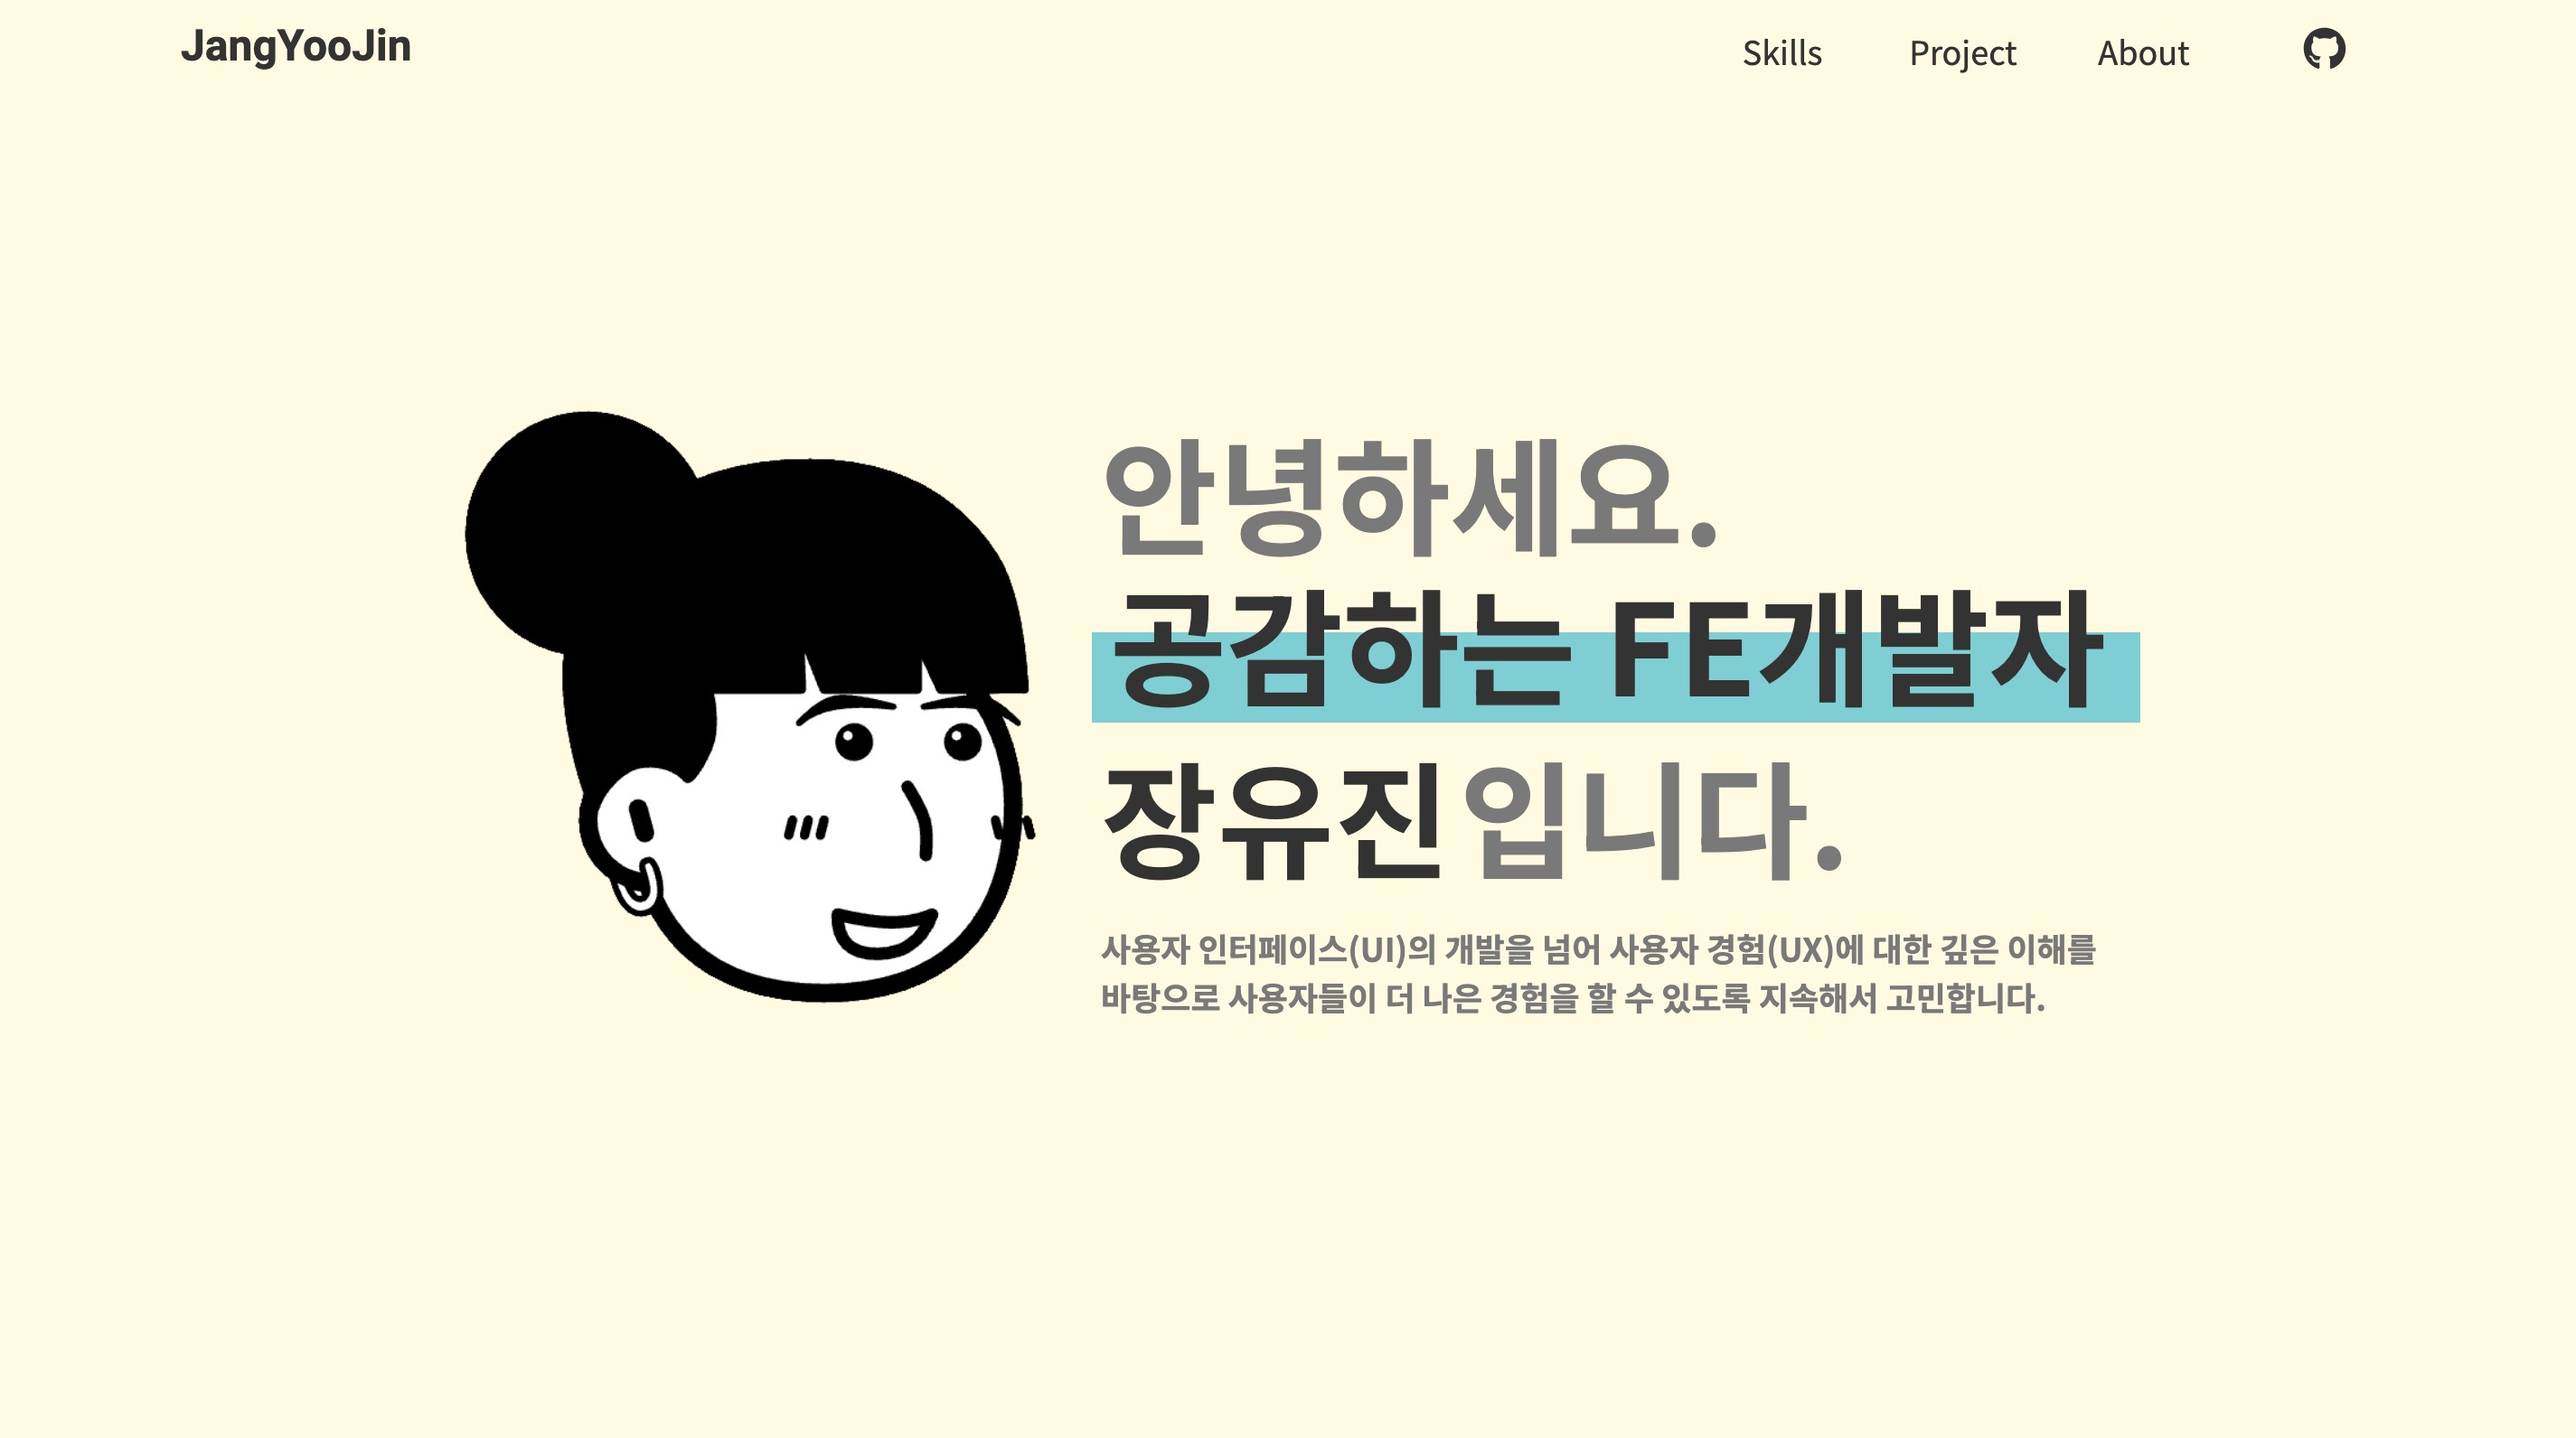
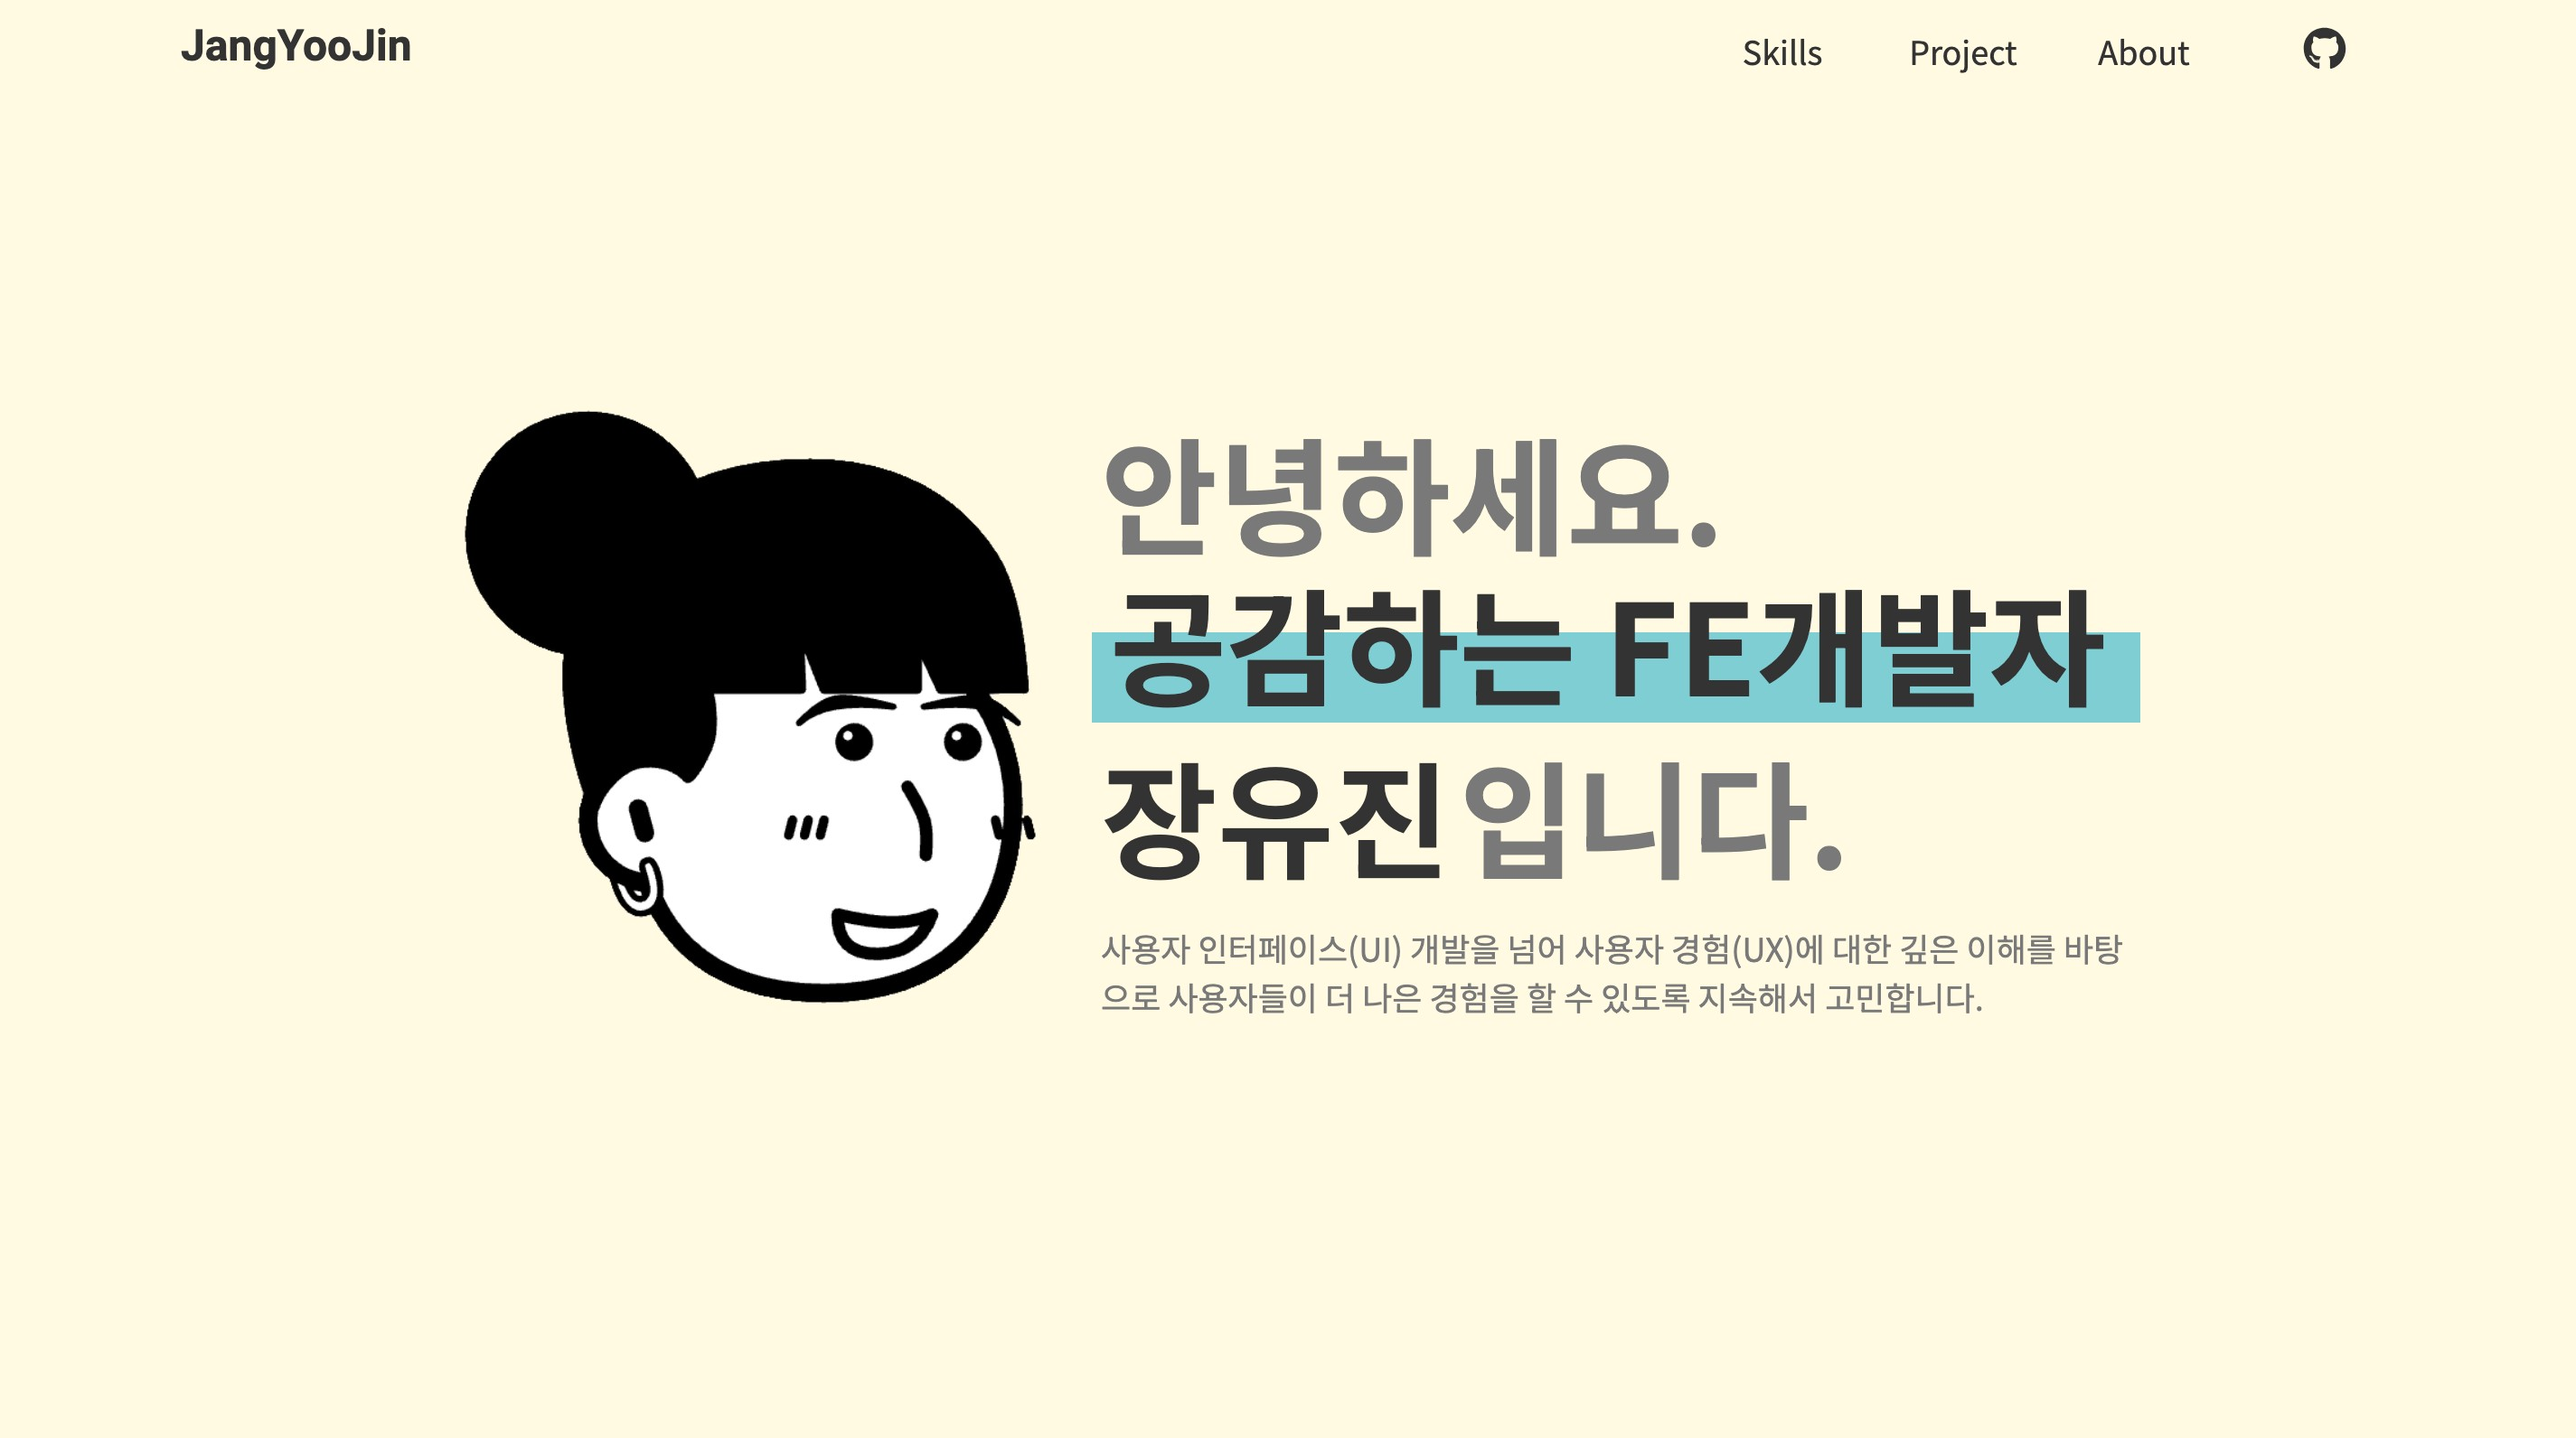
project page

Changed region(s): [[0.406, 0.6464, 0.8432, 0.7079]]

diff --git a/src/layouts/ProjectItem.js b/src/layouts/ProjectItem.js
@@ -48,12 +48,14 @@ const ProjectItem = ({ projectId }) => {
                 <ul className="skillList">{ProjectData[projectId].skill}</ul>
               }
             />
-            <ProjectSection
-              title={"주요 기능"}
-              content={
-                <ul className="funcList">{ProjectData[projectId].func}</ul>
-              }
-            />
+            {ProjectData[projectId].role && (
+              <ProjectSection
+                title={"역할"}
+                content={
+                  <ul className="funcList">{ProjectData[projectId].role}</ul>
+                }
+              />
+            )}
           </aside>
         </article>
         {/* project_bottom */}
@@ -72,6 +74,12 @@ const ProjectItem = ({ projectId }) => {
               content={`${ProjectData[projectId].name} 자료 링크`}
             />
           )}
+          <ProjectSection
+            title={"주요 기능"}
+            content={
+              <ul className="funcList">{ProjectData[projectId].func}</ul>
+            }
+          />
           {ProjectData[projectId].project_ui && (
             <ProjectSection
               title="프로젝트 구조 및 UI"
@@ -90,6 +98,13 @@ const ProjectItem = ({ projectId }) => {
                   {ProjectData[projectId].dev_func}
                 </div>
               }
+            />
+          )}
+
+          {ProjectData[projectId].trouble && (
+            <ProjectSection
+              title="Trouble Shooting"
+              content={ProjectData[projectId].trouble}
             />
           )}
           {ProjectData[projectId].result && (

diff --git a/src/assets/projectdata.js b/src/assets/projectdata.js
@@ -63,6 +63,11 @@ export const ProjectData = [
         </li>
       </ul>
     ),
+    role: (
+      <>
+        <li>기획∙디자인∙개발 100% 진행</li>
+      </>
+    ),
     result_summary: (
       <>
         <li>⌜FE개발자로서 프로필 및 프로젝트들을 소개하기 위한 포트폴리오⌟</li>
@@ -87,6 +92,7 @@ export const ProjectData = [
         </li>
       </>
     ),
+    // trouble: <p></p>,
     result: (
       <p className="des_result">
         이 프로젝트를 통해 <b> React의 다양한 훅과 기능들에 대한 깊게 이해</b>할
@@ -147,6 +153,17 @@ export const ProjectData = [
         <li>각 상품 페이지들 상세 페이지의 상품 소개 및 가격 출력</li>
         <li>Live 페이지</li>
         <li>회원가입 및 마이페이지의 유효성 검사</li>
+      </>
+    ),
+    role: (
+      <>
+        <li>PM, Team Leader</li>
+        <li>프로젝트의 전체적인 스케줄 관리 및 역할 분담</li>
+        <li>기획, 디자인, 개발에 모두 참여</li>
+        <li>
+          산후조리원 몰/졸업몰 상품 상세페이지, 라이브 메인 페이지 & 라이브 상세
+          페이지 개발 담당
+        </li>
       </>
     ),
     result_summary: (
@@ -237,6 +254,12 @@ export const ProjectData = [
           질문을 불러오며 사용자가 작성한 답을 저장하여 불러옵니다.
         </li>
       </ul>
+    ),
+    role: (
+      <>
+        <li>팀원 전체 주제 및 플로우 기획</li>
+        <li>개발 100% 진행</li>
+      </>
     ),
     result_summary: (
       <>

diff --git a/src/layouts/ProjectList.js b/src/layouts/ProjectList.js
@@ -1,7 +1,10 @@
+import { useState } from "react";
 import { ProjectThumb } from "components";
+
 import "assets/scss/main.scss";
 
 const ProjectList = ({ data }) => {
+  const [viewMore, setViewMore] = useState(false);
   return (
     <div className="projectList">
       <section className="projectList_container">
@@ -10,9 +13,20 @@ const ProjectList = ({ data }) => {
           <p>* 썸네일 클릭 시 자세한 내용을 볼 수 있습니다.</p>
         </header>
         <article className="projects">
-          {data.map((item) => (
+          {data.slice(0, data.length - 2).map((item) => (
             <ProjectThumb key={item.id} {...item} />
           ))}
+          {viewMore ? (
+            <>
+              {data.slice(-2).map((item) => (
+                <ProjectThumb key={item.id} {...item} />
+              ))}
+            </>
+          ) : (
+            <button className="viewMore" onClick={() => setViewMore(!viewMore)}>
+              +
+            </button>
+          )}
         </article>
       </section>
     </div>

diff --git a/src/assets/scss/layouts/ProjectList.scss b/src/assets/scss/layouts/ProjectList.scss
@@ -20,6 +20,24 @@
       display: grid;
       grid-template-columns: repeat(1, 1fr);
       gap: 20px;
+      .viewMore {
+        border: 1px solid $color_gray;
+        background-color: $color_white;
+        color: $color_gray;
+        font-size: 16px;
+        padding: 5px 0;
+        border-radius: 5px;
+        cursor: pointer;
+        transition: 0.3s;
+        &:hover {
+          box-shadow: rgba(99, 99, 99, 0.2) 0px 2px 8px 0px;
+          color: $color_darkgray;
+          &::after {
+            content: " 프로젝트 더보기";
+            font-size: 14px;
+          }
+        }
+      }
     }
   }
 }
@@ -45,6 +63,15 @@
         padding: 30px 80px;
         border-radius: 10px;
         margin-bottom: 30px;
+        .viewMore {
+          font-size: 20px;
+          &:hover {
+            &::after {
+              content: " 프로젝트 더보기";
+              font-size: 16px;
+            }
+          }
+        }
       }
     }
   }

diff --git a/src/layouts/Skill.js b/src/layouts/Skill.js
@@ -31,7 +31,6 @@ const Skill = ({ SkillData }) => {
               {skillItem.map((item, j) => (
                 <div
                   className="skill_item"
-                  layoutId={item.id}
                   key={j}
                   onClick={() => handleSkillClick(i, j)}
                 >
@@ -43,7 +42,6 @@ const Skill = ({ SkillData }) => {
                     {expandedItem[i] === j && (
                       <SkillModal key={j} des={item.des} skill={item.skill} />
                     )}
-                    {/* <ul className="des_pc">{item.des}</ul> */}
                   </div>
 
                   <p className="skill_name">{item.skill}</p>

diff --git a/src/layouts/Intro.js b/src/layouts/Intro.js
@@ -37,7 +37,7 @@ const Intro = () => {
               <span>입니다.</span>
             </span>
             <p className="intro_explain">
-              사용자 인터페이스(UI)의 개발을 넘어 사용자 경험(UX)에 대한 깊은
+              사용자 인터페이스(UI) 개발을 넘어 사용자 경험(UX)에 대한 깊은
               이해를 바탕으로 사용자들이 더 나은 경험을 할 수 있도록 지속해서
               고민합니다.
             </p>

diff --git a/src/components/Slide.js b/src/components/Slide.js
@@ -5,7 +5,7 @@ const Slide = () => {
   const navigate = useNavigate();
   return (
     <>
-      {ProjectData.map((p, i) => (
+      {ProjectData.slice(0, ProjectData.length - 2).map((p, i) => (
         <li
           className="item_list"
           key={i}
